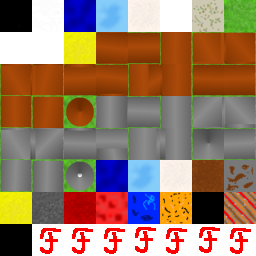
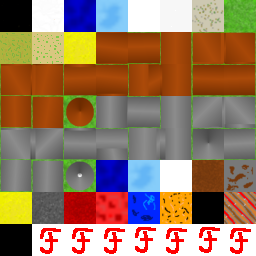
Texturen für Steppe, Savanne und Arktis hinzugefügt und Texturen für Eis überarbeitet. Diagnosesystem erweitert. Weiter am neuen Rohstoffsystem gearbeitet. Angefangen die Anzeige der Rohstoffe zu überarbeiten. Kommentare und Kleinigkeiten korrigiert/angepasst.

Changed region(s): [[0.0, 0.125, 0.25, 0.25], [0.625, 0.625, 0.75, 0.75], [0.5, 0.0, 0.625, 0.125]]

diff --git a/README.md b/README.md
@@ -1,4 +1,4 @@
-# Honki Tonks Zivilisationen - Version: 0.06.6045
+# Honki Tonks Zivilisationen - Version: 0.06.6100
 Der Code meines 4X-Rundenstrategiespiels.
 Geschrieben in Ada 2022 unter Verwendung der Ada Standardbibliothek, der [ASFML 2.5.4/2.6.1](https://github.com/mgrojo/ASFML), der [CSFML 2.5.1/2.6.1](https://github.com/SFML/CSFML), der [SFML 2.5.1/2.6.1](https://github.com/SFML/SFML) und meiner [Spieleentwicklungsbibliothek](https://github.com/HonkiTonk/Honki-Tonks-Spieleentwicklungsbibliothek). Nur unter Linux intensiv getestet, sollte aber auch unter anderen Betriebssystemen problemlos funktionieren. Erstellt ohne die Verwendung von KI.
 
